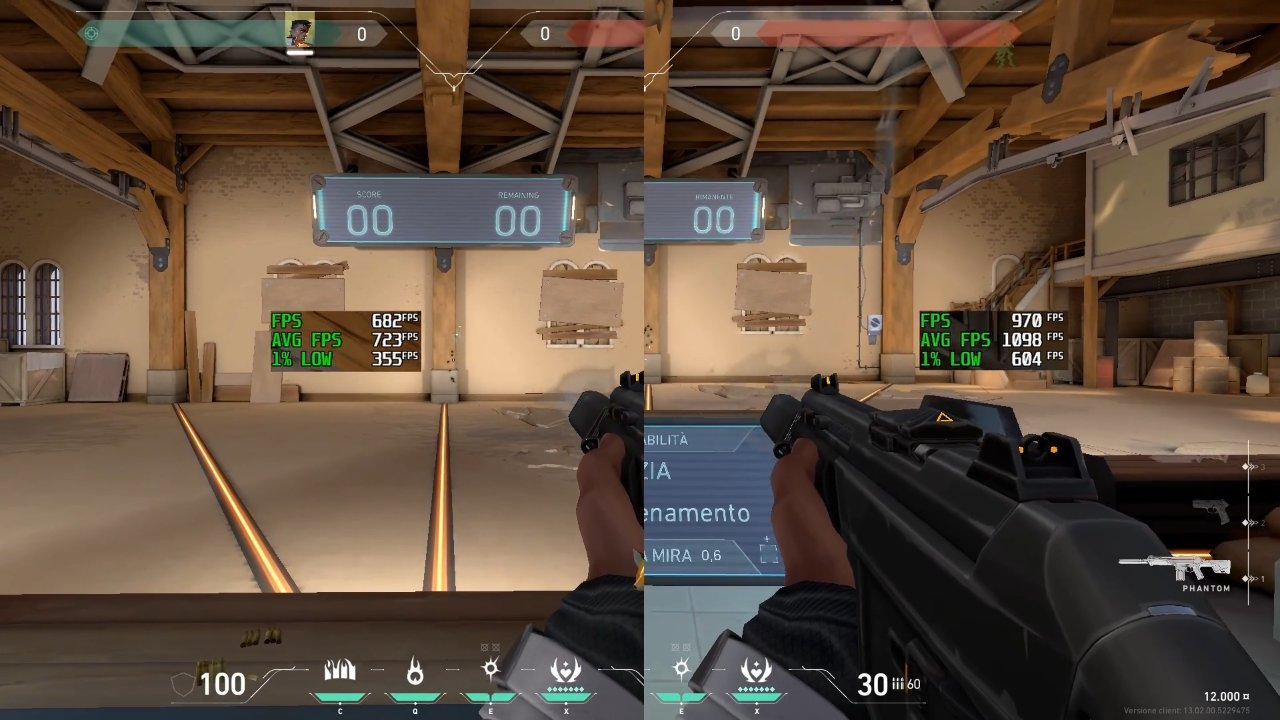
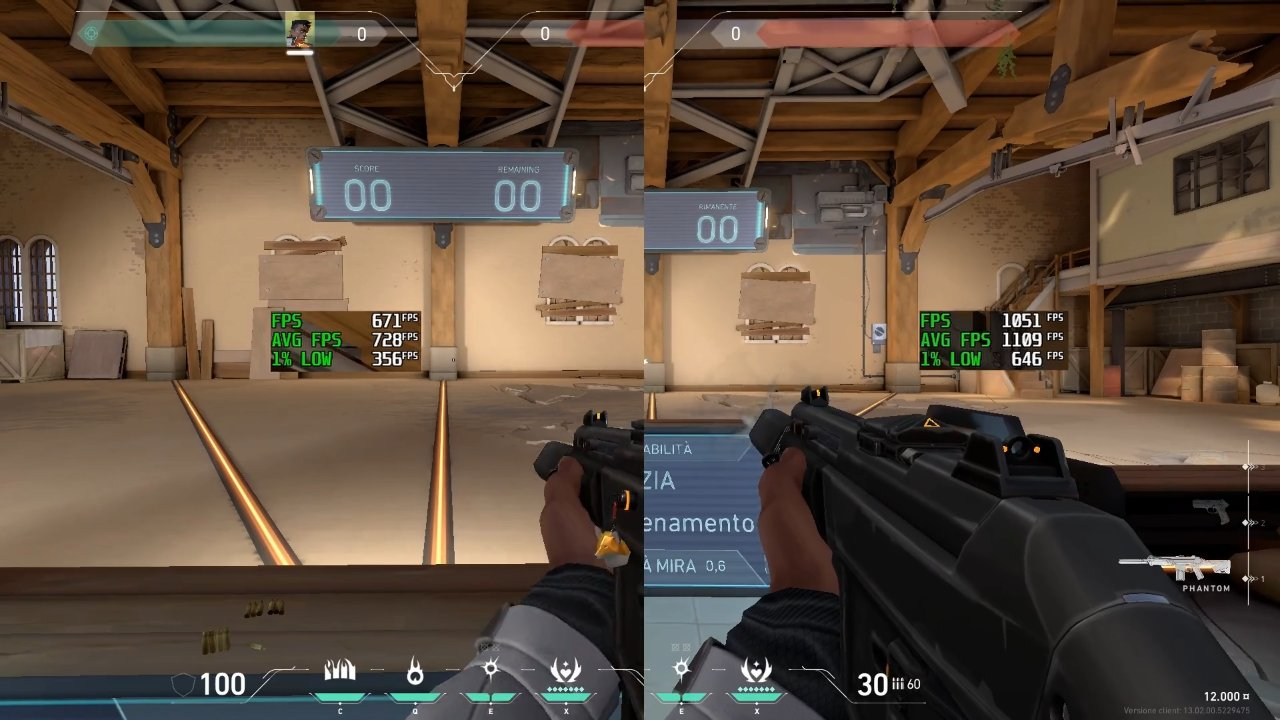
site: guida Valorant, copertina con il picco di FPS a destra (arma in mano)

diff --git a/fps-valorant.html b/fps-valorant.html
@@ -12,7 +12,7 @@
   <meta property="og:url" content="https://sapotweak.org/fps-valorant.html">
   <meta property="og:title" content="Come aumentare gli FPS su Valorant (PC) - Guida 2026">
   <meta property="og:description" content="Impostazioni video, Windows, CPU e hardware: tutto quello che serve per più FPS e meno input lag su Valorant.">
-  <meta property="og:image" content="https://sapotweak.org/benchmarks/valorant.jpg?v=3">
+  <meta property="og:image" content="https://sapotweak.org/benchmarks/valorant.jpg?v=4">
   <link rel="icon" href="sapotweakpng.png">
   <script type="application/ld+json">
   {
@@ -24,7 +24,7 @@
         "inLanguage": "it",
         "datePublished": "2026-10-07",
         "dateModified": "2026-10-07",
-        "image": "https://sapotweak.org/benchmarks/valorant.jpg?v=3",
+        "image": "https://sapotweak.org/benchmarks/valorant.jpg?v=4",
         "author": { "@type": "Organization", "name": "SapoTweak", "url": "https://sapotweak.org/" },
         "publisher": { "@type": "Organization", "name": "SapoTweak", "url": "https://sapotweak.org/" },
         "mainEntityOfPage": "https://sapotweak.org/fps-valorant.html"
@@ -143,7 +143,7 @@
       <span class="kicker">Guida Valorant · PC</span>
       <h1>Come aumentare gli FPS su Valorant (PC): guida 2026</h1>
       <p class="meta">Aggiornata il 7 ottobre 2026 · Lettura: 6 minuti</p>
-      <img class="hero-img" src="benchmarks/valorant.jpg?v=3" alt="Confronto FPS su Valorant prima e dopo l'ottimizzazione con SapoTweak" width="1280" height="720">
+      <img class="hero-img" src="benchmarks/valorant.jpg?v=4" alt="Confronto FPS su Valorant prima e dopo l'ottimizzazione con SapoTweak" width="1280" height="720">
       <p class="caption">Stessa scena del poligono, prima (a sinistra) e dopo (a destra) l'ottimizzazione con SapoTweak.</p>
 
       <p>Su Valorant ogni millisecondo conta: più FPS significa mira più fluida e meno ritardo tra il tuo clic e lo sparo. La buona notizia è che Valorant è un gioco leggero, quindi con le impostazioni giuste quasi ogni PC può migliorare. In questa guida trovi tutto quello che puoi fare <strong>gratis</strong>, in ordine di importanza.</p>
